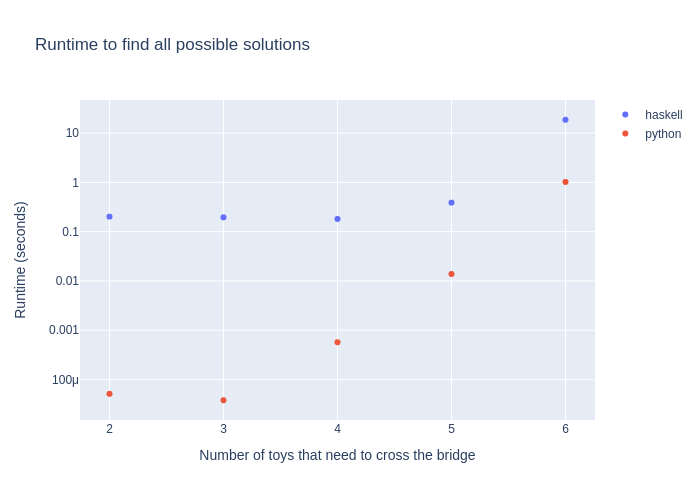
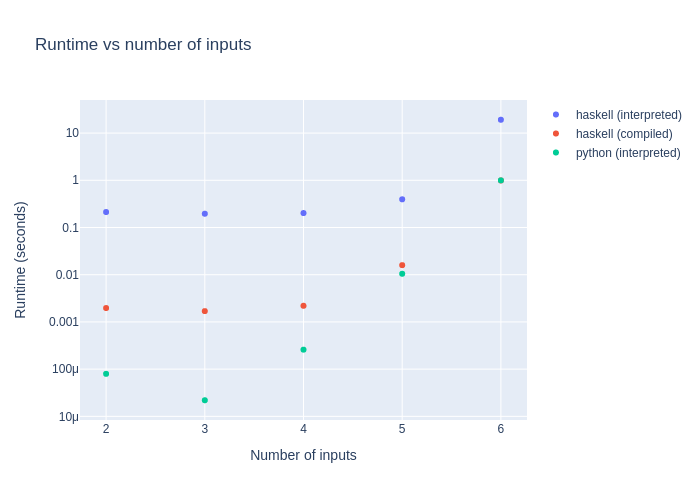
Haskell RAM and compiled runtime profiling

diff --git a/tests/zurg_profile.py b/tests/zurg_profile.py
@@ -1,17 +1,20 @@
+import re
 import sys
 sys.path.append("..")
 import zurg
 
+from glob import glob
 from math import inf
 from os import remove, system
 from plotly.graph_objects import Figure, Scatter
 from time import time
 
 
-def haskell_interpreted():
-    seconds_taken = {}
-
+def haskell_profiling():
     inputs = {2: "A,B", 3: "A,B,C", 4: "A,B,C,D", 5: "A,B,C,D,E", 6: "A,B,C,D,E,F"}
+    seconds_interpreted = {}
+    seconds_compiled = {}
+    ram_used = {}
 
     for key, value in inputs.items():
         toys = ["module Toys where",
@@ -25,12 +28,28 @@ def haskell_interpreted():
         start = time()
         system("runhaskell Zurg.hs")
         end = time()
+        seconds_interpreted[key] = end - start
 
-        seconds_taken[key] = end - start
+        system("ghc -main-is Zurg Zurg.hs -o Zurg")
+        start = time()
+        system("./Zurg")
+        end = time()
+        seconds_compiled[key] = end - start
 
-    remove("Toys.hs")
+        system("ghc -prof -fprof-auto -rtsopts -main-is Zurg Zurg.hs -o Zurg")
+        system("./Zurg +RTS -p")
+        with open("Zurg.prof", 'r') as f:
+            lines = f.readlines()
+        for line in lines:
+            if "total alloc" in line:
+                ram_used[key] = int(re.sub('[^0-9]','', line)) / (1024 * 1024)
+                break
 
-    return seconds_taken
+    files = glob("*.hi") + glob("*.o") + ["Toys.hs"] + ["Zurg"] + ["Zurg.prof"]
+    for file in files:
+        remove(file)
+
+    return seconds_interpreted, seconds_compiled, ram_used
 
 
 def python_interpreted():
@@ -49,14 +68,21 @@ def python_interpreted():
 
 
 if __name__ == "__main__":
-    hs = haskell_interpreted()
-    py = python_interpreted()
-    #TODO: An interesting future project would be to add profiling for compiled Haskell and Python
+    hs_int, hs_comp, hs_ram = haskell_profiling()
+    py_int = python_interpreted()
 
     fig = Figure()
-    fig.add_trace(Scatter(x=list(hs.keys()), y=list(hs.values()), mode='markers', name='haskell'))
-    fig.add_trace(Scatter(x=list(py.keys()), y=list(py.values()), mode='markers', name='python'))
+    fig.add_trace(Scatter(x=list(hs_int.keys()), y=list(hs_int.values()), mode='markers', name='haskell (interpreted)'))
+    fig.add_trace(Scatter(x=list(hs_comp.keys()), y=list(hs_comp.values()), mode='markers', name='haskell (compiled)'))
+    fig.add_trace(Scatter(x=list(py_int.keys()), y=list(py_int.values()), mode='markers', name='python (interpreted)'))
     fig.update_yaxes(title='Runtime (seconds)', type='log')
-    fig.update_xaxes(title='Number of toys that need to cross the bridge')
-    fig.update_layout(title='Runtime to find all possible solutions')
+    fig.update_xaxes(title='Number of inputs')
+    fig.update_layout(title='Runtime vs number of inputs')
     fig.write_image("../docs/runtime.png")
+
+    fig = Figure()
+    fig.add_trace(Scatter(x=list(hs_ram.keys()), y=list(hs_ram.values()), mode='markers', name='haskell (compiled)'))
+    fig.update_yaxes(title='RAM (MB)', type='log')
+    fig.update_xaxes(title='Number of inputs')
+    fig.update_layout(title='RAM allocated vs number of inputs')
+    fig.write_image("../docs/ram.png")

diff --git a/README.md b/README.md
@@ -25,24 +25,24 @@ Dependencies
 * `pytest` (requires `python` >= 3.7)
 * `plotly` (and dependencies)
 
-Within `zurg_test.py` there are system, integration, and unit tests. The `TestZurg` class contains system tests that ensure the solution matches the expected output, derived from `zurg.hs`, a copy of [ZurgDirect.hs](https://web.engr.oregonstate.edu/~erwig/zurg/). These are black box tests, as they do not require knowledge of the implementation, just knowledge of the output format.
+Within `zurg_test.py` there are system, integration, and unit tests. The `TestZurg` class contains system tests that ensure the solution matches the expected output, derived from [ZurgDirect.hs](https://web.engr.oregonstate.edu/~erwig/zurg/). These are black box tests, as they do not require knowledge of the implementation, just knowledge of the output format.
 
 The `TestTwoCross` and `TestOneReturns` classes contain a mixture of integration and unit tests, where integration tests test the interplay between multiple user defined functions (in this case, `two_cross()` and `one_returns()`), and unit tests test a single user defined function in isolation. Due to the indirectly recursive nature of both `two_cross()` and `one_returns()`, both integration and unit tests make one function call. The distinction is in the behavior triggered by the input parameters. All the `recursive_case` tests are integration tests. Most of the `termination_case` tests are unit tests, with the exception of `TestTwoCross::test_termination_case_solution_found`.
 
 The tests in `TestTwoCross` and `TestOneReturns` are gray box tests. They only need knowledge of the output format for the test cases but need implementation knowledge to distinguish between integration and unit tests.
 
-`zurg_profiling.py` profiles runtime (Haskell vs Python) as the input size (number of toys) increases. To accentuate runtime trends, the time limit is set high enough to make every solution valid. The results are discussed in the "Conclusions" section.
+`zurg_profiling.py` profiles the RAM usage and runtime (Haskell vs Python, interpreted vs compiled) as the input size (number of toys) increases. To accentuate runtime trends, the time limit is set high enough to make every solution valid. The results are discussed in the "Conclusions" section.
 
 
 ## Listing
 
 ### Files
 * `docs/`
-  * `example.mer` and `example.png`: Program flow given a simplified puzzle.
-  * `runtime.png`: Runtime of the Haskell and Python solutions as input size increases.
+  * `example.mer` and `example.png`: Flow of `zurg.py`, given a simplified puzzle.
+  * `ram.png` and `runtime.png`: Profiling results.
   * `ZURG.md`: Docs for `zurg.py`.
 * `tests/`
-  * `zurg_profile.py`: Generates `runtime.png`.
+  * `zurg_profile.py`: Generates `ram.png` and `runtime.png`.
   * `zurg_test.py`: Test suite for `zurg.py`.
   * `Zurg.hs` and `Search.hs`: [Generic Haskell solution](https://web.engr.oregonstate.edu/~erwig/zurg/), modified for runtime profiling.
   * `ZurgDirect.hs`: [Puzzle specific Haskell solution](https://web.engr.oregonstate.edu/~erwig/zurg/) for ground truth.
